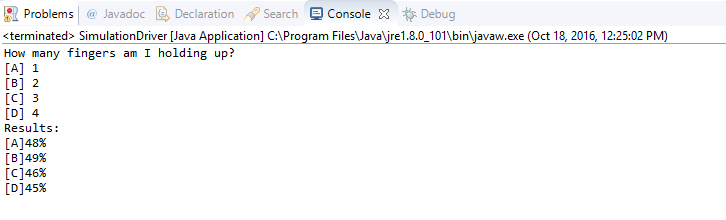
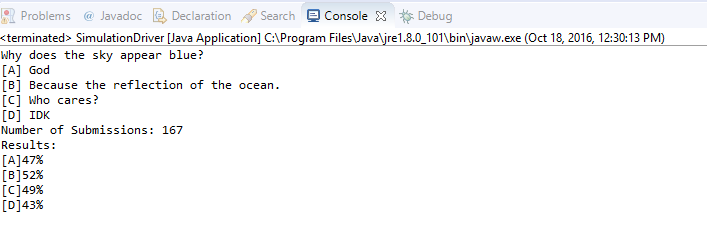
Added submission output

Changed region(s): [[0.0, 0.1364, 0.9646, 0.9273], [0.0, 0.0, 1.0, 0.1091]]

diff --git a/aClicker/src/aClicker/aVoteService.java b/aClicker/src/aClicker/aVoteService.java
@@ -44,7 +44,7 @@ public class aVoteService {
 	
 	public void printResult () {
 		
-		System.out.println("Results:");
+		System.out.println("Number of Submissions: " + submissions.size() + "\nResults:");
 		for (int i = 0; i < numSelectedAns.length; i++) {
 			System.out.println("[" + (char)(i+65) + "]" + (int)(((float)numSelectedAns[i]/submissions.size())*100) + "%");
 		}
